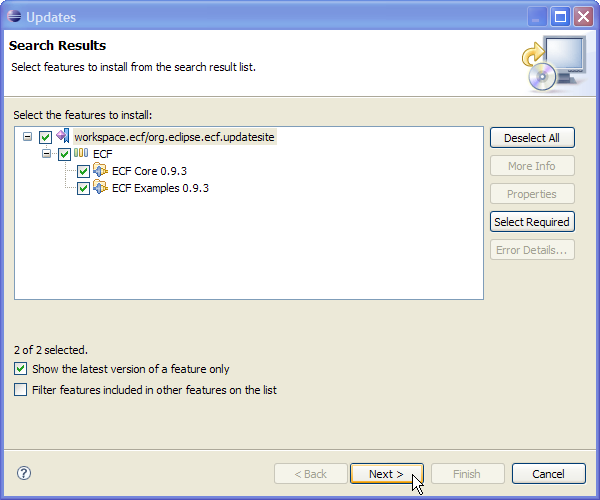
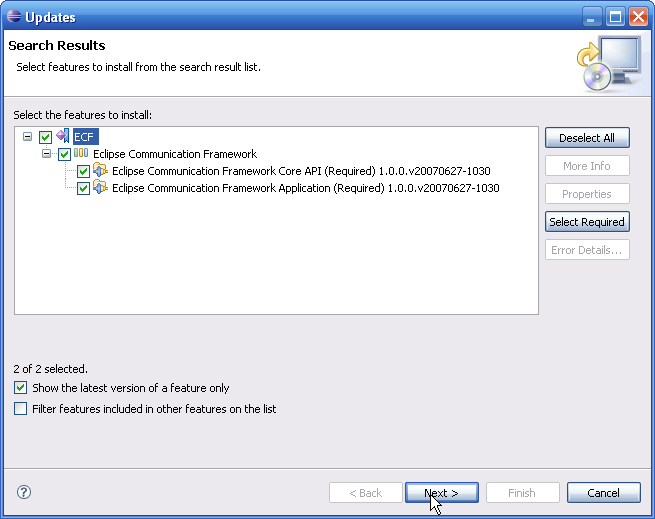
Changed images for update site install.  Also added text about need for both core api and application features

Changed region(s): [[0.0, 0.0, 1.0, 1.0]]

diff --git a/update_install.php b/update_install.php
@@ -68,6 +68,9 @@ to select it before clicking Next.</p>
 
 <h4>Step 6:</h4>
 <p>This next screen shows all of the features that are available to install.</p>
+<p><b>IMPORTANT: Please install both the 'Eclipse Communication Framework Core API' and 
+'Eclipse Communication Framework Application' features.</b></p>.
+
 <img src="images/install-6.png" alt="Install screen" />
 
 <h4>Step 7:</h4>
